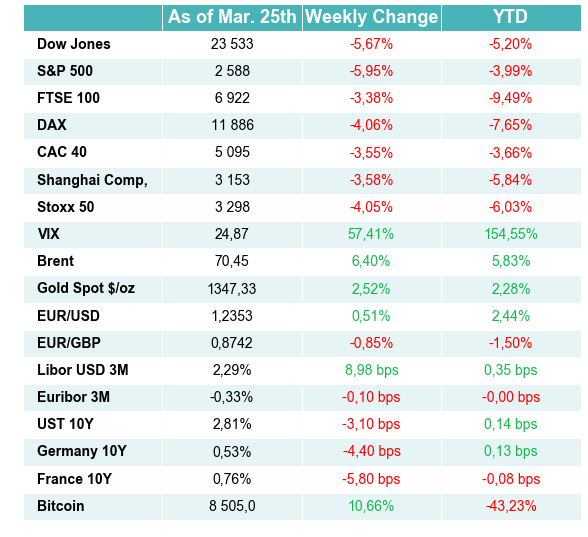
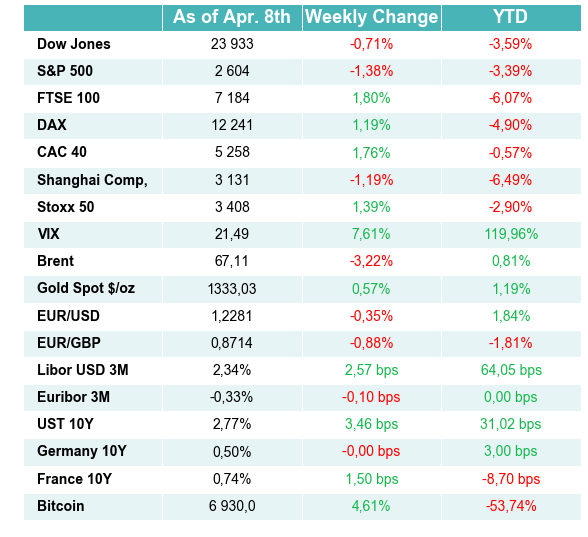
update

diff --git a/email.py b/email.py
@@ -1,0 +1,90 @@
+# -*- coding: utf-8 -*-
+"""
+Created on Sun Apr  8 14:21:16 2018
+
+@author: Arthur
+"""
+
+import smtplib
+import datetime
+from bs4 import BeautifulSoup
+from urllib.request import urlopen
+import pandas as pd
+from time import sleep
+from random import randint
+import numpy as np
+import locale
+
+from IPython.display import Image
+#%%
+"""
+Getting the information for the email: headlines, quote
+"""
+url = "https://docs.google.com/presentation/d/1SlDXHs-JzIcm2eXuzFEFxTe8zwrP5oVCiG7RgCj_Uws/edit#slide=id.g29879e9358_14_0"
+page = urlopen(url)
+sleep(randint(1,3))
+soup = BeautifulSoup(page,"lxml")
+pages = soup.find_all("div", {"id": "pages"})
+svg = soup.find_all("svg", {"xmlns": "http://www.w3.org/2000/svg"})
+myg = soup.find_all("g", {"id": "editor-g29879e9358_14_11"})
+t= soup.find_all("g",{"class":"sketchy-text-content-text"})
+
+#%%
+"""
+Drafting the email
+"""
+now = datetime.datetime.now()
+mth = now.strftime("%b")
+d = str(now.day)
+
+options = {'0' : 'th',
+           '1' : 'st',
+           '2' : 'th',
+           '3' : 'rd',
+           '4' : 'th',
+           '5' : 'th',
+           '6' : 'th',
+           '7' : 'th',
+           '8' : 'th',
+           '9' : 'th'}
+c=options[str(d)[-1]]
+
+subject = 'tt'#The Week At a Glance - '+ mth + '. ' + d + c 
+
+sent_from = 'newsletter.m203@gmail.com'  
+to = ['newsletter.m203@gmail.com']  
+
+body = "Dear Glancers, \n\
+        \nThe Week At a Glance is out. \
+        \nIn this issue: \n\
+- %s \n\
+- %s \n\
+- %s\n\
+- %s\n\
+- %s\n\
+\n\
+Did you know that %s ?\n\
+\n\
+Quote of the day: %s \n\
+\n\
+Have a great week.\n\
+\n\
+The Week At a Glance Team" % ("A","B","C","D","E","F","G")
+
+message = 'Subject: {}\n\n{}'.format(subject, body)
+#%%
+"""
+Sending the email
+"""
+gmail_user = 'newsletter.m203@gmail.com'  
+gmail_password = 'Newsleter'
+
+try:  
+    server = smtplib.SMTP_SSL('smtp.gmail.com', 465)
+    server.ehlo()
+    server.login(gmail_user, gmail_password)
+    server.sendmail(sent_from, to, message)
+    server.close()
+    print('Email sent')
+except:  
+    print('Something went wrong...')

diff --git a/scraper.py b/scraper.py
@@ -80,7 +80,7 @@ def compute_data(price_list,path):
     # YTD
     ComputingTable.iloc[:12]['YTD'] = (ComputingTable.iloc[:12]['Today']-ComputingTable.iloc[:12]['As of Jan 2nd'])/ComputingTable.iloc[:12]['As of Jan 2nd']
     ComputingTable.iloc[17]['YTD'] = (ComputingTable.iloc[17]['Today']-ComputingTable.iloc[17]['As of Jan 2nd'])/ComputingTable.iloc[17]['As of Jan 2nd']
-    ComputingTable.iloc[12:17]['YTD'] = (ComputingTable.iloc[12:17]['Today']-ComputingTable.iloc[12:17]['As of Jan 2nd'])/ComputingTable.iloc[12:17]['As of Jan 2nd']
+    ComputingTable.iloc[12:17]['YTD'] = (ComputingTable.iloc[12:17]['Today']-ComputingTable.iloc[12:17]['As of Jan 2nd'])*10000
     
     ComputingTable['Last Week'] = ComputingTable['Today']
     ComputingTable.to_csv(path+"MyComputingTable.csv")
